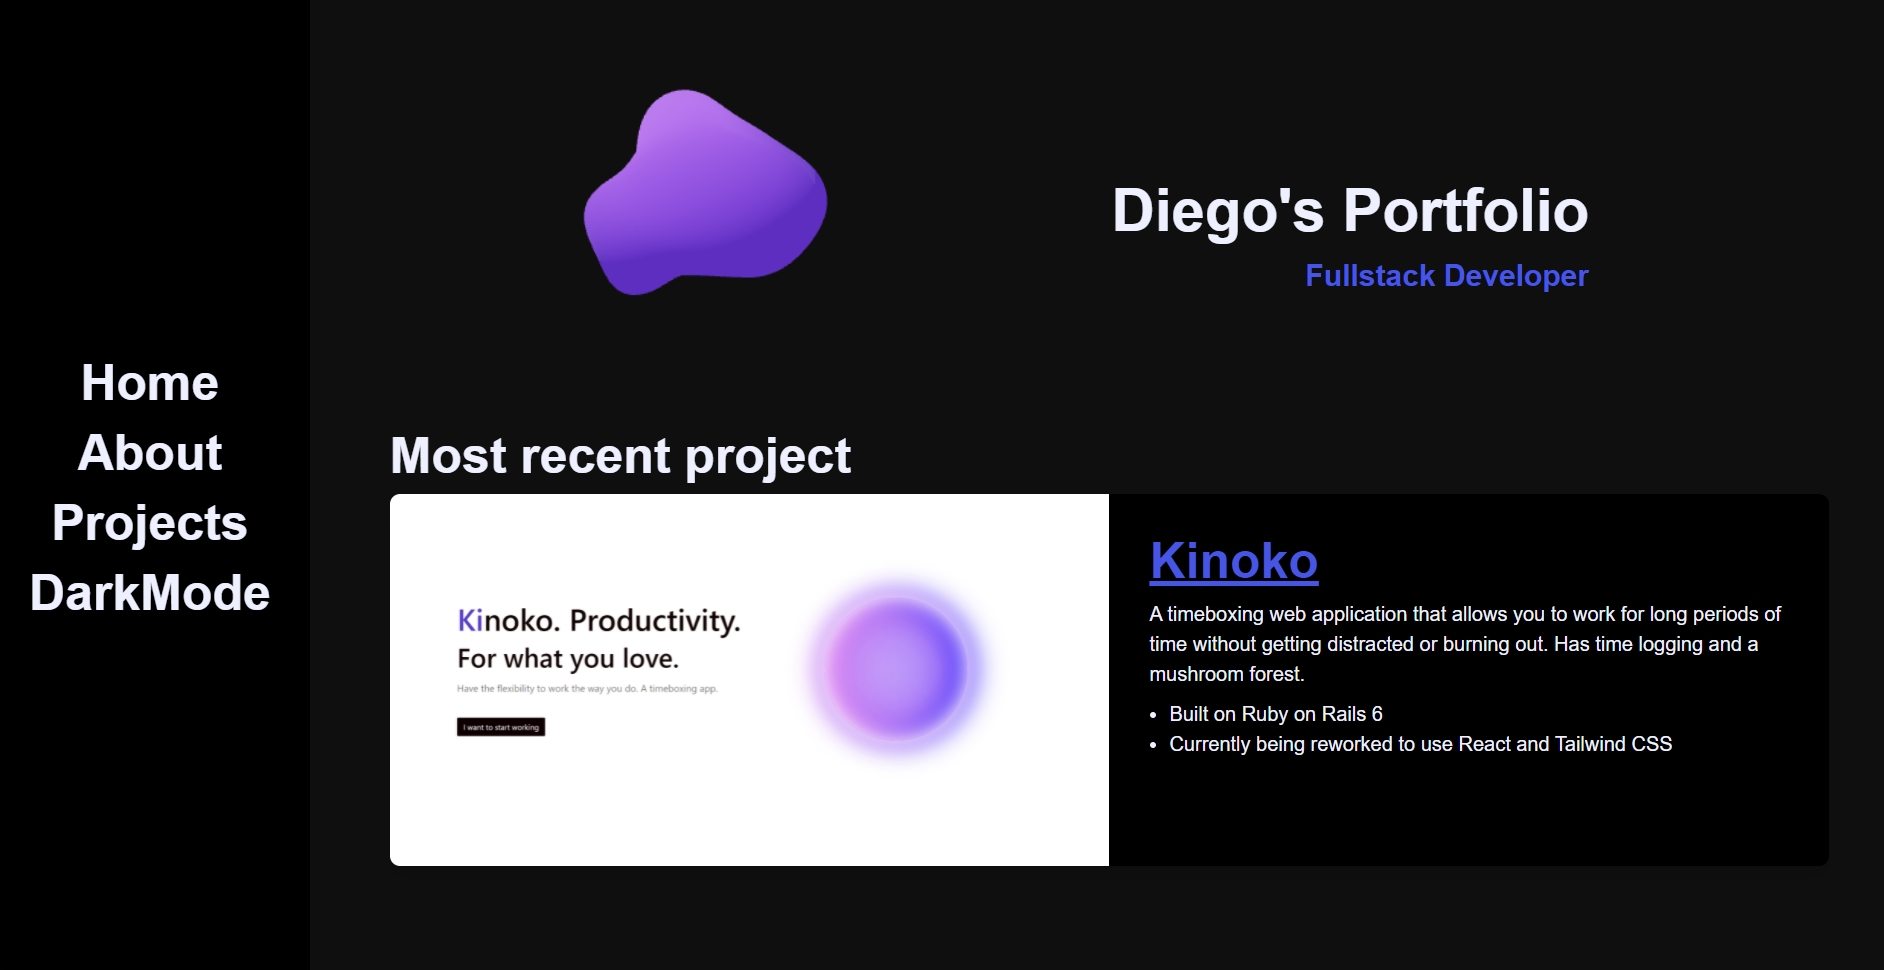
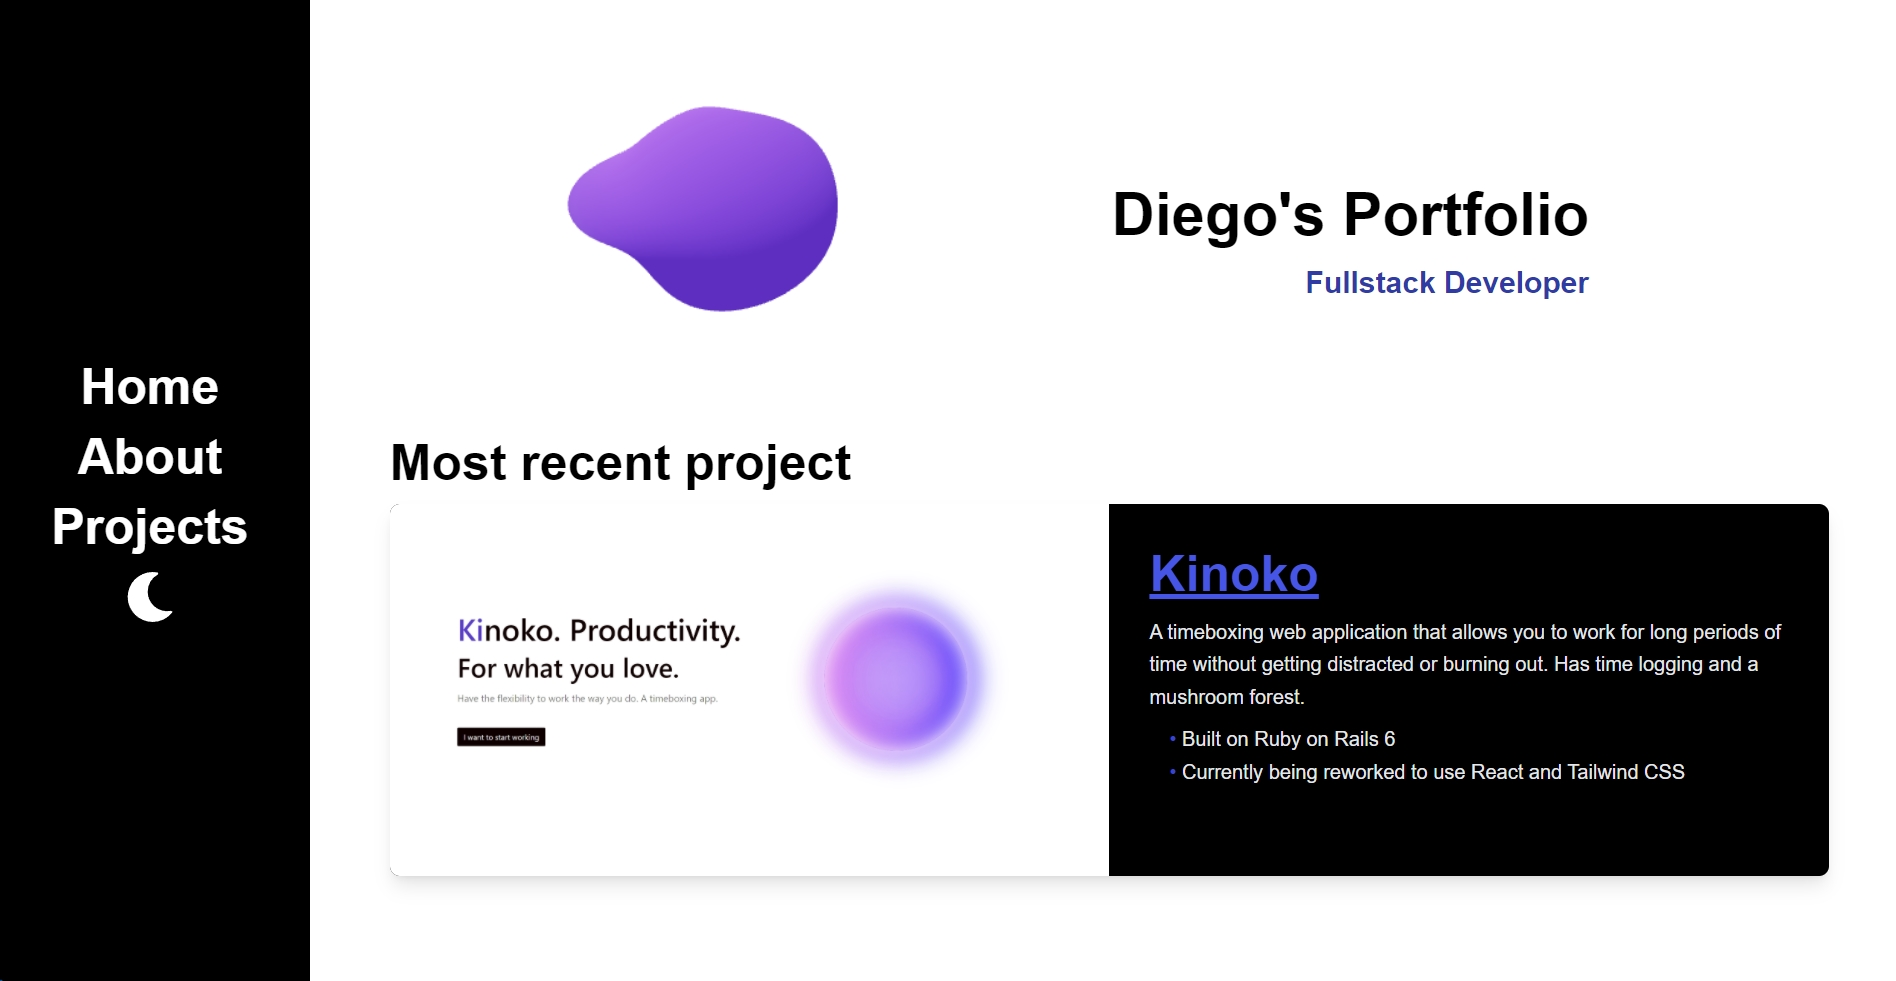
more routes fixes

diff --git a/src/components/NavItems.js b/src/components/NavItems.js
@@ -3,7 +3,7 @@ import { FaMoon, FaSun } from "react-icons/fa";
 import { useState } from "react";
 
 const NavItems = () => {
-	const [darkMode, setDarkMode] = useState(false);
+	const [darkMode, setDarkMode] = useState(true);
 
 	const toggleTheme = () => {
 		setDarkMode(!darkMode);
@@ -19,13 +19,13 @@ const NavItems = () => {
 				</h2>
 			</Link>
 
-			<Link to="/about">
+			<Link to="/portfolio/about">
 				<h2 className="nav-item hover:text-flowerblue-600 active:hover:text-flowerblue-600">
 					About
 				</h2>
 			</Link>
 
-			<Link to="/projects">
+			<Link to="/portfolio/projects">
 				<h2 className="nav-item hover:text-flowerblue-600 active:hover:text-flowerblue-600">
 					Projects
 				</h2>

diff --git a/src/App.js b/src/App.js
@@ -18,10 +18,10 @@ function App() {
 						<Route exact path="/portfolio">
 							<HomePage />
 						</Route>
-						<Route path="/about">
+						<Route path="/portfolio/about">
 							<AboutPage />
 						</Route>
-						<Route path="/projects">
+						<Route path="/portfolio/projects">
 							<ProjectsPage />
 						</Route>
 					</Switch>

diff --git a/public/index.html b/public/index.html
@@ -1,5 +1,5 @@
 <!DOCTYPE html>
-<html lang="en">
+<html lang="en" class="dark">
 	<head>
 		<meta charset="utf-8" />
 		<link rel="icon" href="%PUBLIC_URL%/favicon.ico" />
